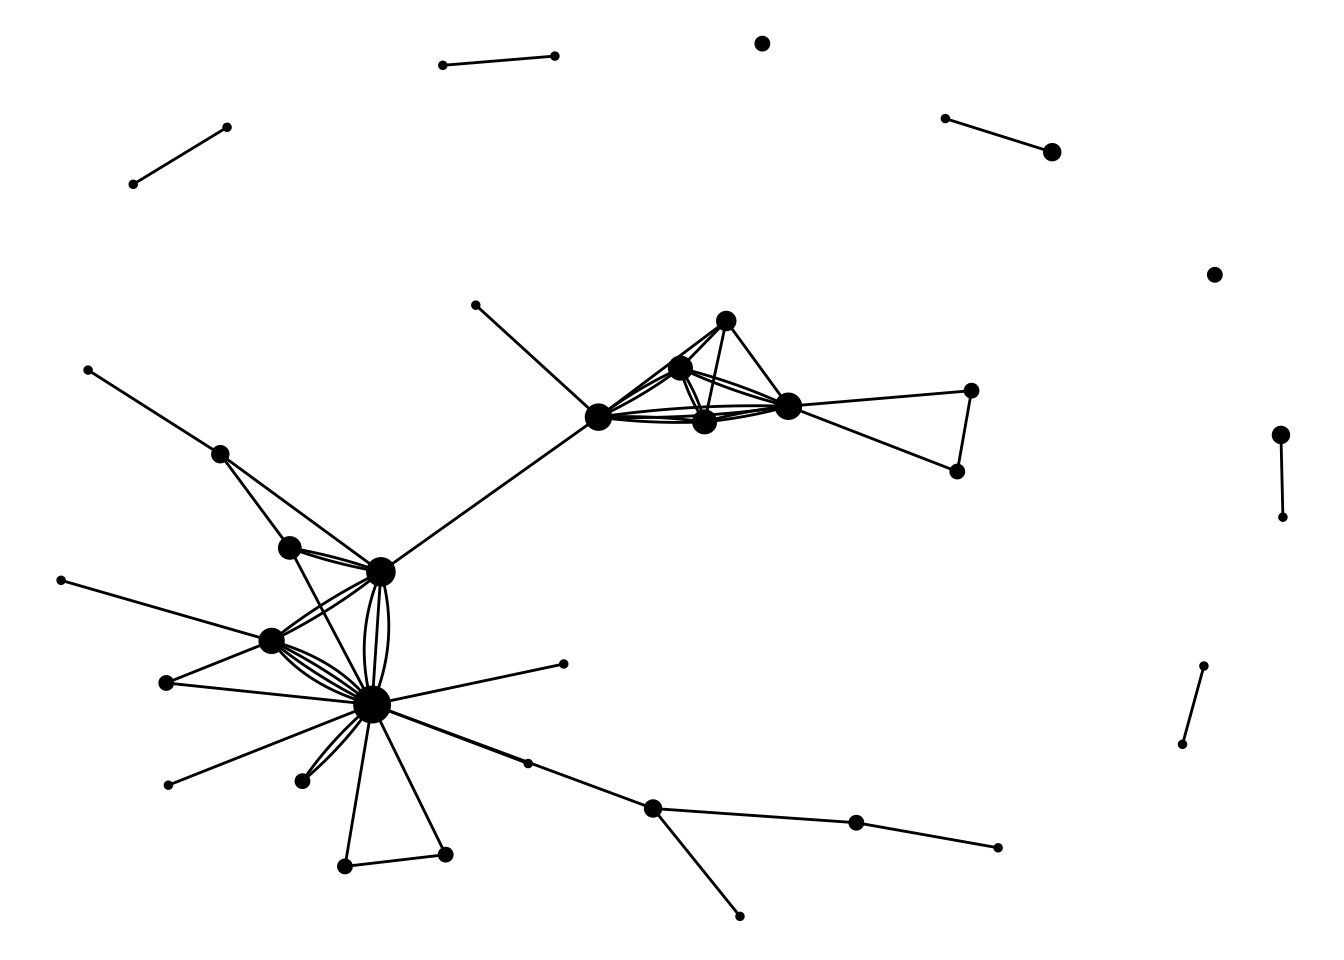
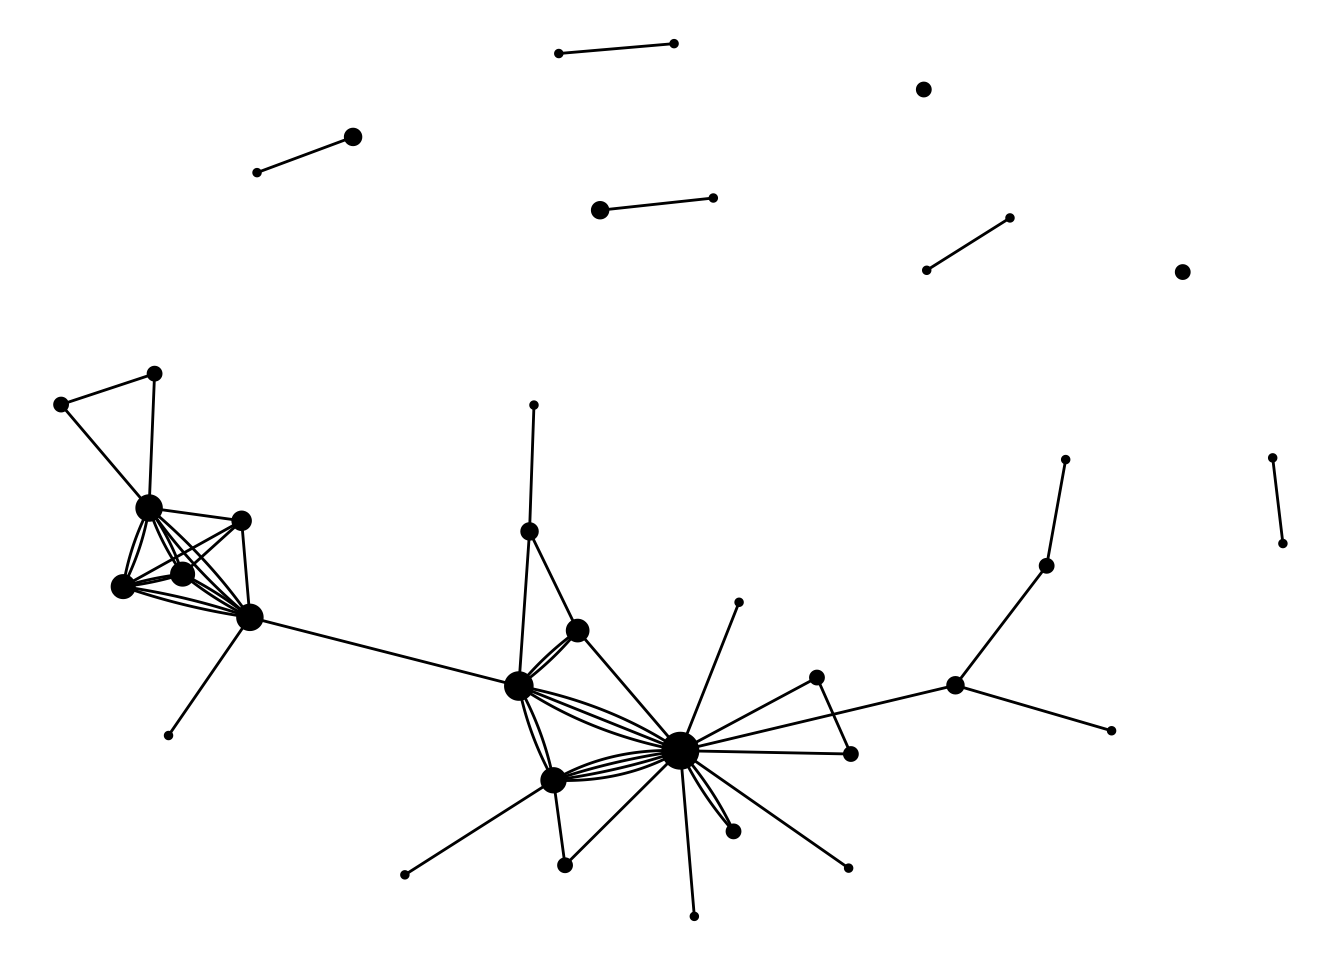
Add links to graph hosted on rostrum.blog

diff --git a/content/post/2019-02-14-relayverse.html b/content/post/2019-02-14-relayverse.html
@@ -30,13 +30,13 @@ draft: no
 <div class="figure">
 <img src="/post/2019-02-14-relayverse_files/relayverse.gif" alt="A gif of the graph network for Relay FM, showing the ability to zoom and select nodes with the visNetwork package"/>
 <p class="caption">
-The Relay FM podcast network, visualised. Scroll to the bottom of this post to try it yourself.
+The Relay FM podcast network, visualised. <a href="https://www.rostrum.blog/output/relayverse.html">View it here</a>.
 </p>
 </div>
 <div id="tldr" class="section level1">
 <h1>tl;dr</h1>
-<p>I made an interactive <a href="https://en.wikipedia.org/wiki/Network_theory">graph network</a> of the podcasts and hosts of <a href="https://www.relay.fm">Relay FM</a> using R.</p>
-<p>The content of this post was updated on 10 Sep 2019.</p>
+<p>I made an interactive <a href="https://en.wikipedia.org/wiki/Network_theory">graph network</a> of the podcast host relationships on <a href="https://www.relay.fm">Relay FM</a> using R. <a href="https://www.rostrum.blog/output/relayverse.html">You can interact with it in a separate window</a> and find out below how it was made.</p>
+<p>I refreshed the data and style of the visualisation on 10 Sep 2019.</p>
 </div>
 <div id="podcast-networks" class="section level1">
 <h1>Podcast networks</h1>
@@ -106,24 +106,24 @@ select(shows, Podcast, Hosts) %&gt;%
 </thead>
 <tbody>
 <tr class="odd">
-<td align="left">BONANZA</td>
-<td align="left">Myke HurleyMatt Alexander</td>
+<td align="left">Make Do</td>
+<td align="left">Tiffany ArmentJulia Skott</td>
 </tr>
 <tr class="even">
+<td align="left">Almanac</td>
+<td align="left">Andy Ihnatko</td>
+</tr>
+<tr class="odd">
+<td align="left">Mac Power Users</td>
+<td align="left">David SparksStephen M. Hackett[6]formerly hosted byKatie Floyd</td>
+</tr>
+<tr class="even">
+<td align="left">Canvas</td>
+<td align="left">Federico ViticciFraser Spiers</td>
+</tr>
+<tr class="odd">
 <td align="left">Roboism</td>
 <td align="left">Alex CoxSavannah Million</td>
-</tr>
-<tr class="odd">
-<td align="left">Download</td>
-<td align="left">Jason Snell</td>
-</tr>
-<tr class="even">
-<td align="left">Analog(ue)</td>
-<td align="left">Myke HurleyCasey Liss</td>
-</tr>
-<tr class="odd">
-<td align="left">Rocket</td>
-<td align="left">Brianna WuChristina WarrenSimone de Rochefort</td>
 </tr>
 </tbody>
 </table>
@@ -152,54 +152,54 @@ sample_n(shows_clean, 10) %&gt;% knitr::kable()</code></pre>
 </thead>
 <tbody>
 <tr class="odd">
-<td align="left">Isometric</td>
-<td align="left">Mikah Sargent</td>
-<td align="left">Retired</td>
+<td align="left">Rocket</td>
+<td align="left">Christina Warren</td>
+<td align="left">Current</td>
 </tr>
 <tr class="even">
+<td align="left">Presentable</td>
+<td align="left">Jeff Veen</td>
+<td align="left">Current</td>
+</tr>
+<tr class="odd">
 <td align="left">Liftoff</td>
 <td align="left">Jason Snell</td>
 <td align="left">Current</td>
 </tr>
-<tr class="odd">
-<td align="left">Analog(ue)</td>
-<td align="left">Myke Hurley</td>
-<td align="left">Current</td>
-</tr>
 <tr class="even">
-<td align="left">Reconcilable Differences</td>
-<td align="left">Merlin Mann</td>
+<td align="left">Material</td>
+<td align="left">Andy Ihnatko</td>
 <td align="left">Current</td>
 </tr>
 <tr class="odd">
-<td align="left">Remaster</td>
-<td align="left">Myke Hurley</td>
-<td align="left">Current</td>
-</tr>
-<tr class="even">
-<td align="left">Isometric</td>
-<td align="left">Steve Lubitz</td>
+<td align="left">Download</td>
+<td align="left">Jason Snell</td>
 <td align="left">Retired</td>
 </tr>
-<tr class="odd">
-<td align="left">Remaster</td>
-<td align="left">Shahid Kamal Ahmad</td>
-<td align="left">Current</td>
-</tr>
 <tr class="even">
-<td align="left">Free Agents</td>
-<td align="left">David Sparks</td>
+<td align="left">Connected</td>
+<td align="left">Stephen M. Hackett</td>
 <td align="left">Current</td>
 </tr>
 <tr class="odd">
-<td align="left">Rocket</td>
+<td align="left">Disruption</td>
 <td align="left">Brianna Wu</td>
 <td align="left">Current</td>
 </tr>
 <tr class="even">
-<td align="left">Playing for Fun</td>
-<td align="left">Myke Hurley</td>
+<td align="left">Upgrade</td>
+<td align="left">Jason Snell</td>
 <td align="left">Current</td>
+</tr>
+<tr class="odd">
+<td align="left">Clockwise</td>
+<td align="left">Dan Moren</td>
+<td align="left">Current</td>
+</tr>
+<tr class="even">
+<td align="left">Isometric</td>
+<td align="left">Maddy Myers</td>
+<td align="left">Retired</td>
 </tr>
 </tbody>
 </table>
@@ -326,39 +326,9 @@ sample_n(relay_combos, 10) %&gt;% knitr::kable()  # random sample of 10</code></
 </thead>
 <tbody>
 <tr class="odd">
-<td align="left">Federico Viticci</td>
 <td align="left">Myke Hurley</td>
-<td align="left">Remaster</td>
-</tr>
-<tr class="even">
-<td align="left">John Siracusa</td>
-<td align="left">Merlin Mann</td>
-<td align="left">Reconcilable Differences</td>
-</tr>
-<tr class="odd">
-<td align="left">Andy Ihnatko</td>
-<td align="left">Florence Ion</td>
-<td align="left">Material</td>
-</tr>
-<tr class="even">
-<td align="left">Jeff Veen</td>
-<td align="left">Jeff Veen</td>
-<td align="left">Presentable</td>
-</tr>
-<tr class="odd">
-<td align="left">Mikah Sargent</td>
-<td align="left">Steve Lubitz</td>
-<td align="left">Isometric</td>
-</tr>
-<tr class="even">
-<td align="left">Maddy Myers</td>
-<td align="left">Mikah Sargent</td>
-<td align="left">Isometric</td>
-</tr>
-<tr class="odd">
-<td align="left">Brianna Wu</td>
-<td align="left">Steve Lubitz</td>
-<td align="left">Disruption</td>
+<td align="left">Casey Liss</td>
+<td align="left">Analog(ue)</td>
 </tr>
 <tr class="even">
 <td align="left">Myke Hurley</td>
@@ -366,14 +336,44 @@ sample_n(relay_combos, 10) %&gt;% knitr::kable()  # random sample of 10</code></
 <td align="left">Inquisitive</td>
 </tr>
 <tr class="odd">
-<td align="left">Andy Ihnatko</td>
-<td align="left">Andy Ihnatko</td>
-<td align="left">Almanac</td>
+<td align="left">Federico Viticci</td>
+<td align="left">Stephen M. Hackett</td>
+<td align="left">The Prompt</td>
+</tr>
+<tr class="even">
+<td align="left">Stephen M. Hackett</td>
+<td align="left">Mikah Sargent</td>
+<td align="left">Query</td>
+</tr>
+<tr class="odd">
+<td align="left">Federico Viticci</td>
+<td align="left">Shahid Kamal Ahmad</td>
+<td align="left">Remaster</td>
+</tr>
+<tr class="even">
+<td align="left">Federico Viticci</td>
+<td align="left">Stephen M. Hackett</td>
+<td align="left">Connected</td>
+</tr>
+<tr class="odd">
+<td align="left">Georgia Dow</td>
+<td align="left">Steve Lubitz</td>
+<td align="left">Disruption</td>
 </tr>
 <tr class="even">
 <td align="left">Brianna Wu</td>
-<td align="left">Mikah Sargent</td>
-<td align="left">Disruption</td>
+<td align="left">Simone de Rochefort</td>
+<td align="left">Rocket</td>
+</tr>
+<tr class="odd">
+<td align="left">Dan Provost</td>
+<td align="left">Myke Hurley</td>
+<td align="left">Thoroughly Considered</td>
+</tr>
+<tr class="even">
+<td align="left">Andy Ihnatko</td>
+<td align="left">Florence Ion</td>
+<td align="left">Material</td>
 </tr>
 </tbody>
 </table>
@@ -507,6 +507,8 @@ edges &lt;- relay_combos %&gt;%
   addFontAwesome()  # makes sure that FontAwesome dependency is in place</code></pre>
 <div id="htmlwidget-1" style="width:672px;height:480px;" class="visNetwork html-widget"></div>
 <script type="application/json" data-for="htmlwidget-1">{"x":{"nodes":{"id":["1","2","3","4","5","6","7","8","9","10","11","12","13","14","15","16","17","18","19","20","21","22","23","24","25","26","27","28","29","30","31","32","33","34","35","36","37","38"],"label":["Aleen Simms","Alex Cox","Andy Ihnatko","Brad Dowdy","Brianna Wu","Casey Liss","CGP Grey","Christina Warren","Dan Moren","Dan Provost","David Smith","David Sparks","Federico Viticci","Florence Ion","Fraser Spiers","Georgia Dow","Gillian Parker","Jason Snell","Jeff Veen","John Siracusa","Julia Skott","K Tempest Bradford","Maddy Myers","Marco Arment","Matt Alexander","Merlin Mann","Mikah Sargent","Myke Hurley","Quinn Rose","Rose Orchard","Savannah Million","Shahid Kamal Ahmad","Shelly Brisbin","Simone de Rochefort","Stephen M. Hackett","Steve Lubitz","Tiffany Arment","Tom Gerhardt"]},"edges":{"V1":["Andy Ihnatko","Myke Hurley","David Sparks","Myke Hurley","Myke Hurley","Federico Viticci","Dan Moren","Myke Hurley","Federico Viticci","Federico Viticci","Myke Hurley","CGP Grey","Georgia Dow","Georgia Dow","Georgia Dow","Brianna Wu","Brianna Wu","Steve Lubitz","Jason Snell","Jason Snell","Stephen M. Hackett","Myke Hurley","Brianna Wu","Brianna Wu","Brianna Wu","Brianna Wu","Georgia Dow","Georgia Dow","Georgia Dow","Maddy Myers","Maddy Myers","Mikah Sargent","Aleen Simms","Jason Snell","David Sparks","Tiffany Arment","Andy Ihnatko","Quinn Rose","K Tempest Bradford","Shelly Brisbin","Myke Hurley","Jeff Veen","Stephen M. Hackett","John Siracusa","Federico Viticci","Federico Viticci","Myke Hurley","Alex Cox","Brianna Wu","Brianna Wu","Christina Warren","Stephen M. Hackett","Myke Hurley","Myke Hurley","Myke Hurley","Federico Viticci","Dan Provost","Dan Provost","Myke Hurley","Marco Arment","David Smith","Stephen M. Hackett","Myke Hurley","Federico Viticci"],"V2":["Andy Ihnatko","Casey Liss","Rose Orchard","Matt Alexander","Matt Alexander","Fraser Spiers","Mikah Sargent","Myke Hurley","Myke Hurley","Stephen M. Hackett","Stephen M. Hackett","Myke Hurley","Brianna Wu","Steve Lubitz","Mikah Sargent","Steve Lubitz","Mikah Sargent","Mikah Sargent","Jason Snell","David Sparks","Stephen M. Hackett","Myke Hurley","Georgia Dow","Maddy Myers","Mikah Sargent","Steve Lubitz","Maddy Myers","Mikah Sargent","Steve Lubitz","Mikah Sargent","Steve Lubitz","Steve Lubitz","Aleen Simms","Stephen M. Hackett","Stephen M. Hackett","Julia Skott","Florence Ion","Gillian Parker","Aleen Simms","Shelly Brisbin","Tiffany Arment","Jeff Veen","Mikah Sargent","Merlin Mann","Myke Hurley","Shahid Kamal Ahmad","Shahid Kamal Ahmad","Savannah Million","Christina Warren","Simone de Rochefort","Simone de Rochefort","Jason Snell","Brad Dowdy","Federico Viticci","Stephen M. Hackett","Stephen M. Hackett","Myke Hurley","Tom Gerhardt","Tom Gerhardt","Tiffany Arment","Marco Arment","Myke Hurley","Jason Snell","Myke Hurley"],"title":["Almanac","Analog(ue)","Automators","Bionic","BONANZA","Canvas","Clockwise","CMD Space","Connected","Connected","Connected","Cortex","Disruption","Disruption","Disruption","Disruption","Disruption","Disruption","Download","Free Agents","Fusion","Inquisitive","Isometric","Isometric","Isometric","Isometric","Isometric","Isometric","Isometric","Isometric","Isometric","Isometric","Less Than or Equal","Liftoff","Mac Power Users","Make Do","Material","Mixed Feelings","Originality","Parallel","Playing for Fun","Presentable","Query","Reconcilable Differences","Remaster","Remaster","Remaster","Roboism","Rocket","Rocket","Rocket","Subnet","The Pen Addict","The Prompt","The Prompt","The Prompt","Thoroughly Considered","Thoroughly Considered","Thoroughly Considered","Top Four","Under the Radar","Ungeniused","Upgrade","Virtual"],"from":["3","28","12","28","28","13","9","28","13","13","28","7","16","16","16","5","5","36","18","18","35","28","5","5","5","5","16","16","16","23","23","27","1","18","12","37","3","29","22","33","28","19","35","20","13","13","28","2","5","5","8","35","28","28","28","13","10","10","28","24","11","35","28","13"],"to":["3","6","30","25","25","15","27","28","28","35","35","28","5","36","27","36","27","27","18","12","35","28","16","23","27","36","23","27","36","27","36","36","1","35","35","21","14","17","1","33","37","19","27","26","28","32","32","31","8","34","34","18","4","13","35","35","28","38","38","37","24","28","18","28"]},"nodesToDataframe":true,"edgesToDataframe":true,"options":{"width":"100%","height":"100%","nodes":{"shape":"icon","font":{"face":"Lekton","size":20},"icon":{"code":"f130","size":75,"color":"#000000"}},"manipulation":{"enabled":false},"edges":{"width":3,"selectionWidth":5,"color":{"color":"#447d9b","highlight":"#c83c3c","opacity":0.5}},"physics":{"solver":"forceAtlas2Based","forceAtlas2Based":{"gravitationalConstant":-50}},"layout":{"randomSeed":1337},"interaction":{"navigationButtons":true}},"groups":null,"width":null,"height":null,"idselection":{"enabled":true,"style":"width: 150px; height: 26px","useLabels":true,"main":"Select by id"},"byselection":{"enabled":false,"style":"width: 150px; height: 26px","multiple":false,"hideColor":"rgba(200,200,200,0.5)"},"main":{"text":"The Relayverse","style":"font-family:Lekton, monospace;font-weight:bold;font-size:30px;text-align:center;"},"submain":{"text":"Click hosts (nodes) to see co-host relationships (edges)","style":"font-family:Lekton, monospace;font-weight:regular;font-size:20px;text-align:center;"},"footer":{"text":"Source: Wikipedia (2019/09/10)","style":"font-family:Lekton, monospace;font-weight:regular;font-size:15px;text-align:right;"},"background":"rgba(0, 0, 0, 0)","highlight":{"enabled":true,"hoverNearest":false,"degree":1,"algorithm":"all","hideColor":"rgba(200,200,200,0.5)","labelOnly":true},"collapse":{"enabled":false,"fit":false,"resetHighlight":true,"clusterOptions":null,"keepCoord":true,"labelSuffix":"(cluster)"},"tooltipStay":300,"tooltipStyle":"position: fixed;visibility:hidden;padding: 5px;white-space: nowrap;font-family: verdana;font-size:14px;font-color:#000000;background-color: #f5f4ed;-moz-border-radius: 3px;-webkit-border-radius: 3px;border-radius: 3px;border: 1px solid #808074;box-shadow: 3px 3px 10px rgba(0, 0, 0, 0.2);","iconsRedraw":true},"evals":[],"jsHooks":[]}</script>
+<hr />
+<p>I recommend you <a href="https://www.rostrum.blog/output/relayverse.html">view the network it in its own window</a>.</p>
 <p>Some design points:</p>
 <ul>
 <li>the nodes are microphone icons from <a href="https://fontawesome.com/">FontAwesome</a></li>
